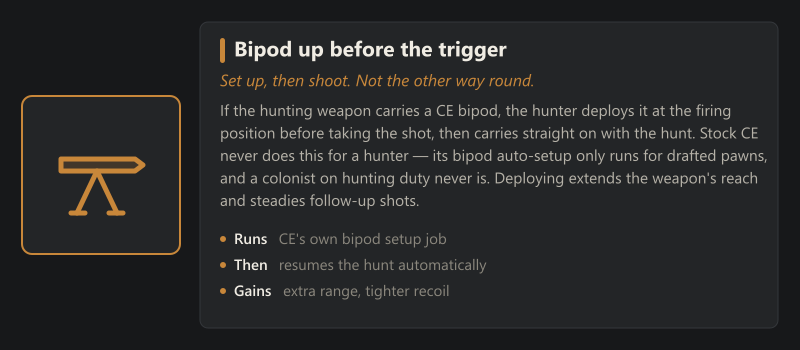
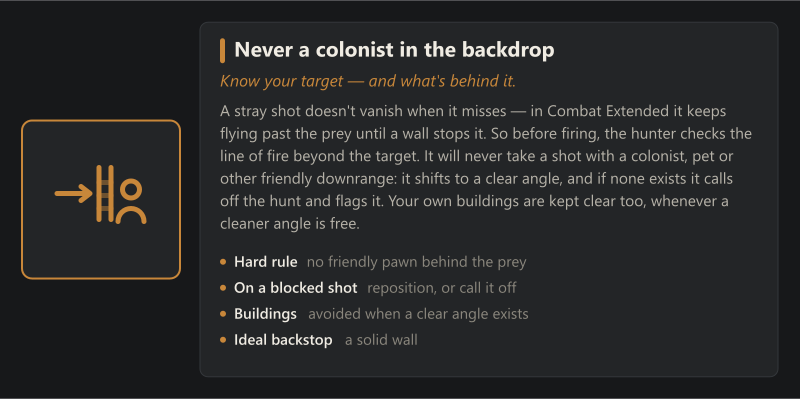
Release 1.1.0: version metadata, Steam description, infographics, guides
- Bump modVersion to 1.1.0 in all three places (About.xml modVersion,
  the description's Version line + changelog block, steam_description.txt).
- Rebuild the description with the shot-backdrop feature; add the 1.1.0
  changelog entry.
- Add a "Never a colonist in the backdrop" infographic panel (new glyph)
  and regenerate the workshop-page image set.
- Player Guide: add the Shot backdrop safety mechanic and its settings.

diff --git a/workshop-page/build.js b/workshop-page/build.js
@@ -82,6 +82,12 @@ const GLYPHS = {
       <circle cx="26" cy="74" r="8.5" fill="${BG}"/></g>`,
   check: `<g fill="none" stroke="${ACCENT}" stroke-width="5" stroke-linecap="round" stroke-linejoin="round">
       <circle cx="50" cy="50" r="36"/><path d="M32 51 l13 13 24 -28"/></g>`,
+  // A shot from the left is stopped by a wall; a colonist stands safely behind it.
+  backdrop: `<g fill="none" stroke="${ACCENT}" stroke-width="5" stroke-linecap="round" stroke-linejoin="round">
+      <path d="M6 44 h30"/><path d="M30 37 l9 7 -9 7"/>
+      <path d="M48 18 v52 M60 18 v52"/>
+      <path d="M48 33 h12 M48 46 h12 M48 59 h12" opacity="0.45"/>
+      <circle cx="80" cy="40" r="8.5"/><path d="M67 72 a13 13 0 0 1 26 0"/></g>`,
 };
 
 // ---- header ribbon ---------------------------------------------------------
@@ -220,6 +226,17 @@ const blocks = [
       { k: 'Danger scaling', v: 'body size and predator flag' },
       { k: 'Herd pressure', v: 'live scan for nearby kin' },
       { k: 'Standoff ceiling', v: '40 cells, configurable' },
+    ],
+  },
+  {
+    type: 'feature', glyph: 'backdrop', title: 'Never a colonist in the backdrop',
+    flavor: "Know your target — and what's behind it.",
+    body: "A stray shot doesn't vanish when it misses — in Combat Extended it keeps flying past the prey until a wall stops it. So before firing, the hunter checks the line of fire beyond the target. It will never take a shot with a colonist, pet or other friendly downrange: it shifts to a clear angle, and if none exists it calls off the hunt and flags it. Your own buildings are kept clear too, whenever a cleaner angle is free.",
+    rows: [
+      { k: 'Hard rule', v: 'no friendly pawn behind the prey' },
+      { k: 'On a blocked shot', v: 'reposition, or call it off' },
+      { k: 'Buildings', v: 'avoided when a clear angle exists' },
+      { k: 'Ideal backstop', v: 'a solid wall' },
     ],
   },
   {

diff --git a/wiki/Player-Guide.md b/wiki/Player-Guide.md
@@ -59,6 +59,27 @@ escalates to hunting your colonist.
 
 You can turn this off and leave just the break-off behaviour.
 
+## Shot backdrop safety
+
+A hunter also checks what is behind the animal before it fires. In Combat Extended a missed
+shot does not vanish — it keeps flying past the target until a wall stops it — so a shot taken
+with something valuable downrange can hit it by accident.
+
+Before firing, and again continuously as it approaches, the hunter traces the line of fire past
+the prey:
+
+- **A friendly pawn behind the prey is a hard stop.** Colonists, pets, prisoners, visitors and
+  allies are never fired past. The hunter moves to a clear angle instead; if the prey drifts, or
+  a colonist wanders downrange, it repositions on the fly.
+- **If no clear angle exists at all**, the hunter calls off the hunt: it removes the hunt mark
+  from the animal — so no colonist keeps re-attempting the unsafe shot — and raises an alert
+  telling you why. Re-mark it once the area is clear.
+- **Your own buildings** are kept out of the line of fire too, but only softly: the hunter
+  prefers an angle with nothing of yours behind the prey, yet will still take a shot over a
+  building when that is the only angle available. A solid wall is the ideal backstop.
+
+Wild animals and hostiles behind the prey are not protected — only things you would not want shot.
+
 ## CE bipod deploy
 
 If the hunting weapon has a Combat Extended bipod, the hunter sets it up at the firing position
@@ -84,6 +105,9 @@ Open **Options → Mod settings → Better Hunters (CE)**.
 | Deploy CE bipod before shooting | on | Set up a fitted CE bipod at the firing position first. |
 | Re-check the standoff during the approach | on | Re-route to a safe cell if the prey drifts; break off if it closes onto the hunter. |
 | ↳ Pause and flag the pawn on break-off | on | On break-off, pause the game and jump a message to the hunter so you can micro. |
+| Check the shot's backdrop | on | Never fire with a colonist, pet or other friendly behind the prey; reposition, or call off the hunt if there's no clear angle. |
+| ↳ Backdrop scan distance | 20 cells | How far past the prey to look for friendlies and buildings. The scan stops at the first wall. |
+| ↳ Also keep the shot clear of your buildings | on | Prefer angles with no building of yours behind the prey — only when a cleaner angle is free; never cancels a shot. |
 | Debug logging | off | Logs the computed ranges and decisions for each hunt (for troubleshooting). |
 
 ---
